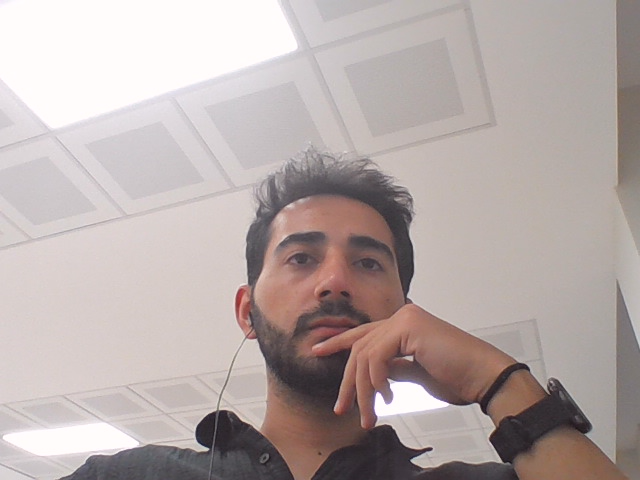
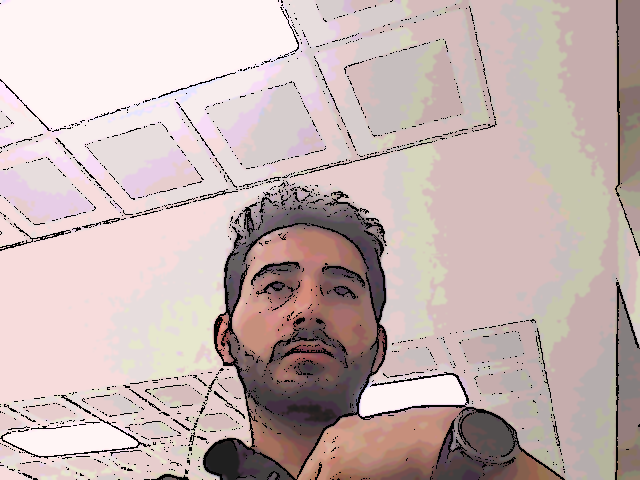
kamera penceresi ve kaydetme ayalandı.

diff --git a/main.py b/main.py
@@ -61,9 +61,6 @@ def apply_vintage_filter(image):
     return final_img
 
 def apply_cartoon_effect(img):
-    # Görüntü boyutunu küçült (FPS için)
-    img = cv2.resize(img, None, fx=0.5, fy=0.5)
-    
     # AŞAMA 1: GÜRÜLTÜ AZALTMA
     img_blur = cv2.medianBlur(img, 5)
     
@@ -117,16 +114,14 @@ def apply_cartoon_effect(img):
     edges_color = cv2.cvtColor(edges, cv2.COLOR_GRAY2BGR)
     cartoon = cv2.bitwise_and(img_color, img_color, mask=edges)
     
-    # Görüntüyü orijinal boyuta geri döndür
-    target_width = int(img.shape[1] * 2)
-    target_height = int(img.shape[0] * 2)
-    cartoon = cv2.resize(cartoon, (target_width, target_height))
-    
-    return cartoon
+    return cartoon  # Orijinal boyutta döndür
 
-def capture_photo(frame):
+def capture_photo():
+    global frame
+    # Karikatür efekti uygulanmış görüntüyü al
+    cartoon_frame = apply_cartoon_effect(frame)
     # Fotoğrafı yüksek çözünürlükte kaydet
-    cv2.imwrite('captured_photo.png', frame)
+    cv2.imwrite('captured_photo.png', cartoon_frame)  # Karikatür efekti uygulanmış frame'i kaydet
     print("Fotoğraf kaydedildi: captured_photo.png")
     messagebox.showinfo("Fotoğraf Çekildi", "Fotoğraf kaydedildi: captured_photo.png")
 
@@ -158,14 +153,11 @@ def start_capture():
     update_frame()  # İlk frame'i güncelleyerek başlat
 
 def on_capture_button_click():
-    global frame  # Global frame değişkenini kullan
     print("Fotoğraf çekiliyor...")
     for i in range(3, 0, -1):
         print(f"{i}...")
         time.sleep(1)
-    capture_photo(frame)  # Fotoğrafı çek
-
-
+    capture_photo()  # Fotoğrafı çek
 
 if __name__ == "__main__":
     # Tkinter arayüzü oluştur
@@ -184,5 +176,5 @@ if __name__ == "__main__":
     capture_button.pack(pady=10)
 
     # Uygulamayı başlat
-    start_capture()
+    start_capture()    
     root.mainloop()
